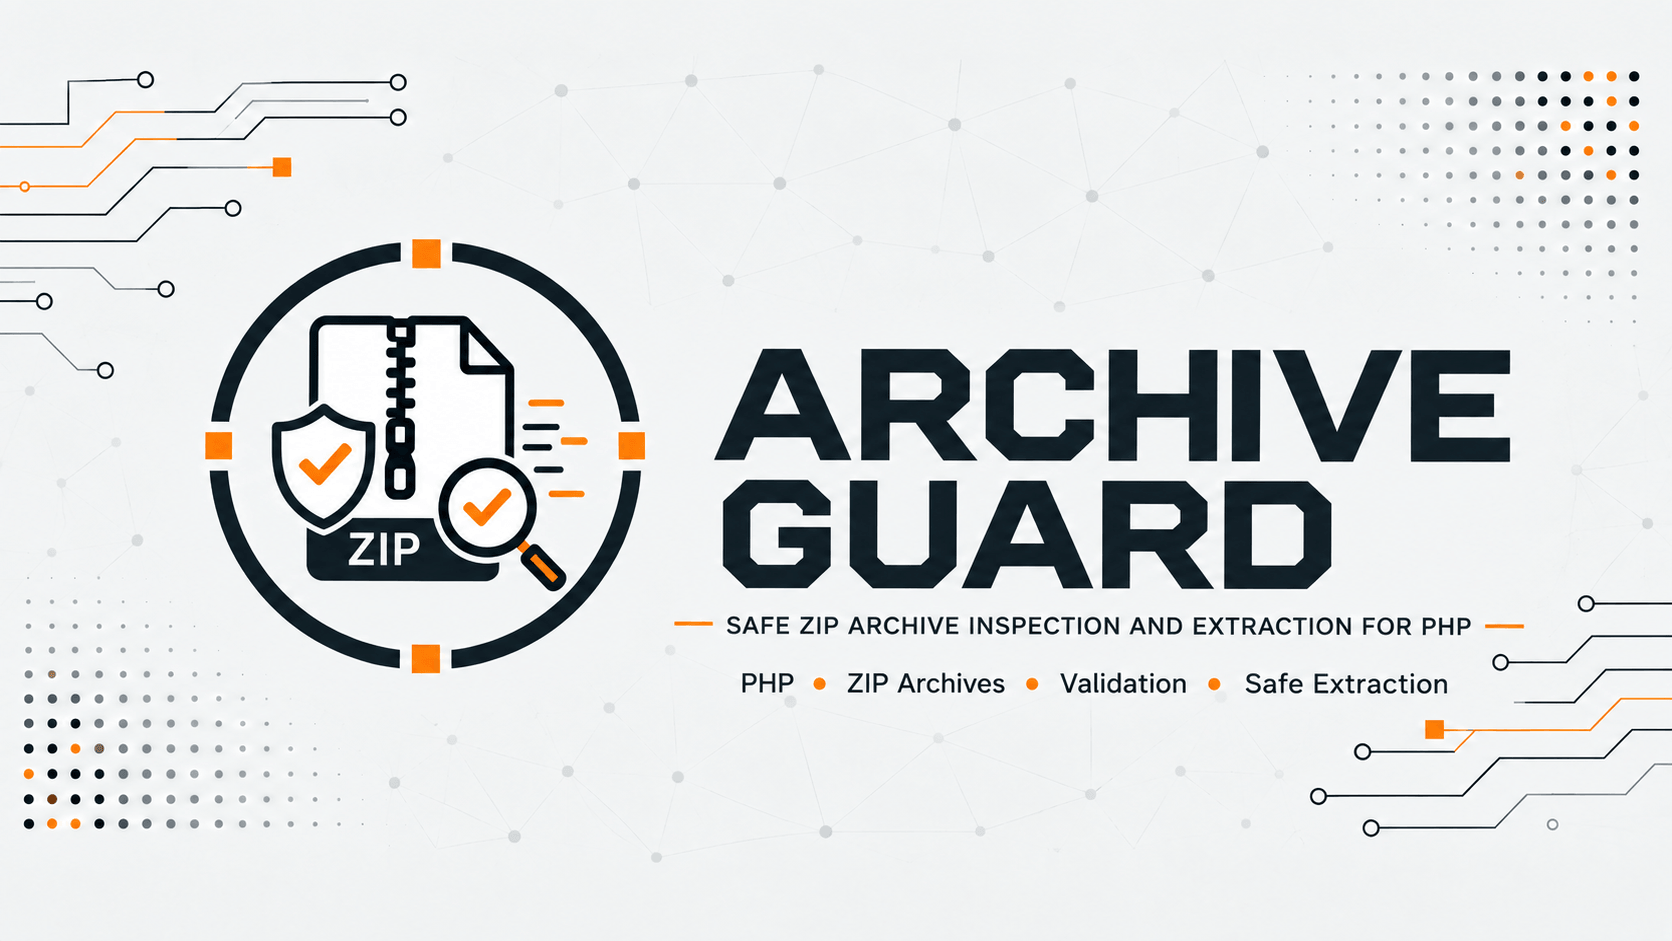
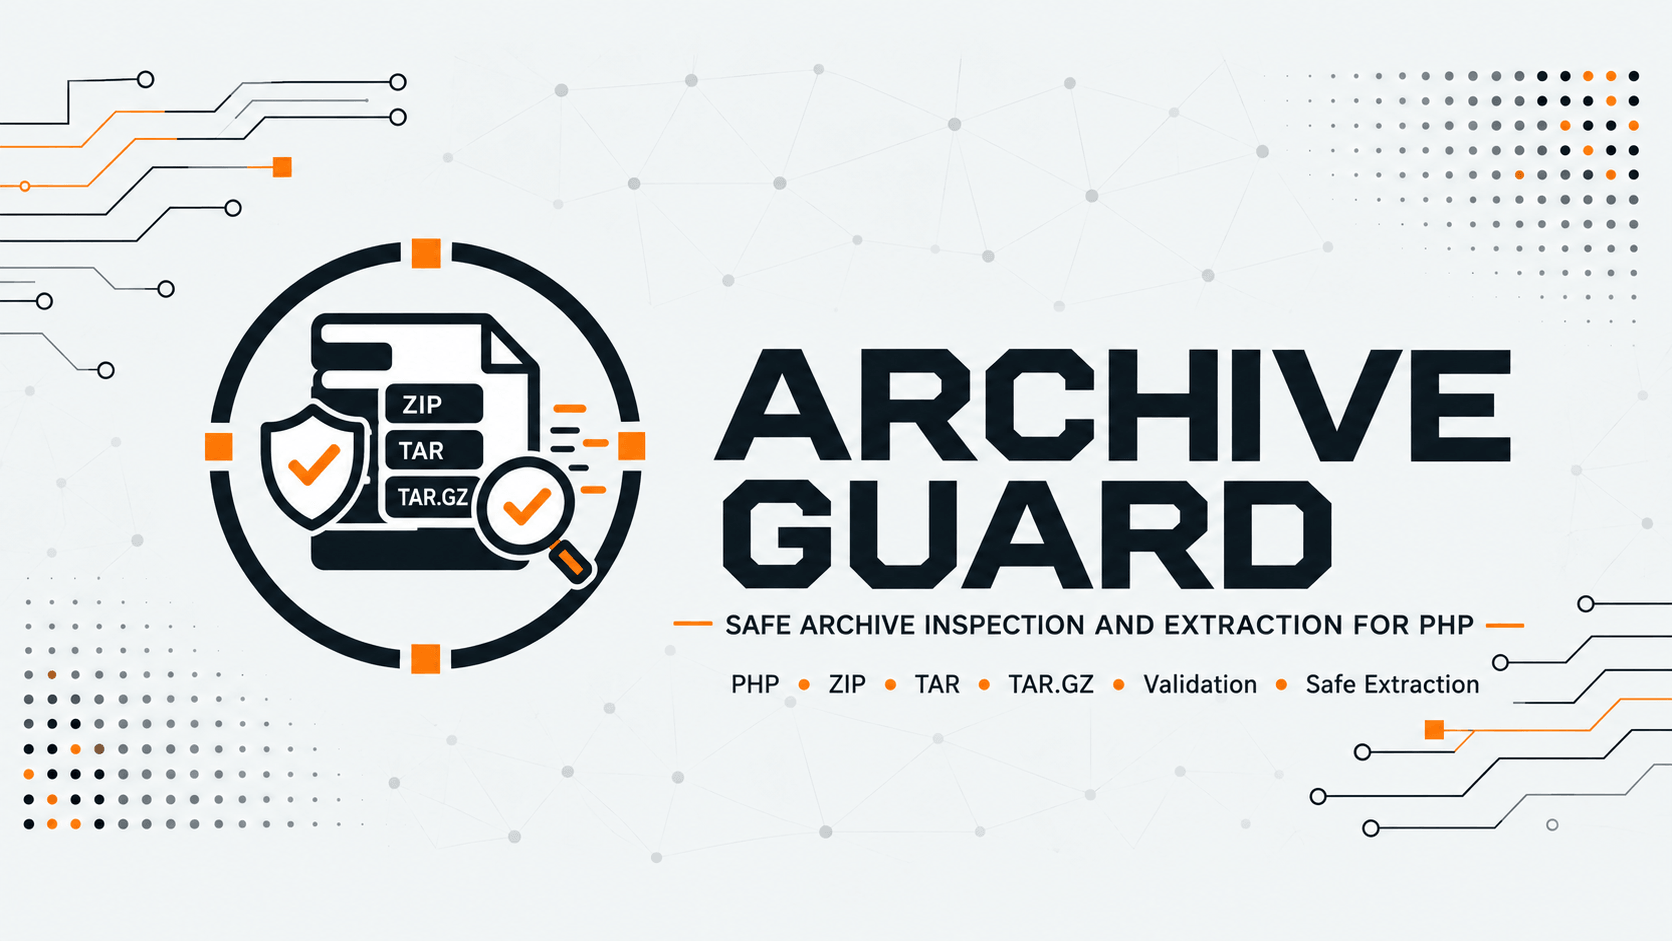
chore: добавить в таблицу archive-guard (pakagist) и обновить миниатюру

diff --git a/README.md b/README.md
@@ -133,7 +133,7 @@
         <a href="https://github.com/yaleksandr89/archive-guard">
           <img src="assets/images/packages/archive-guard.png" width="100%" alt="archive-guard — ZIP, TAR and TAR.GZ inspection and controlled extraction for PHP">
         </a><br><br>
-        <sub><a href="https://github.com/yaleksandr89/archive-guard">GitHub</a> · В разработке</sub><br><br>
+        <sub><a href="https://github.com/yaleksandr89/archive-guard">GitHub</a> · <a href="https://packagist.org/packages/yaleksandr89/archive-guard">Packagist</a></sub><br><br>
         Проверка ZIP, TAR и TAR.GZ перед распаковкой и извлечение с заданными ограничениями для PHP.
       </td>
       <td valign="top" width="50%"></td>
